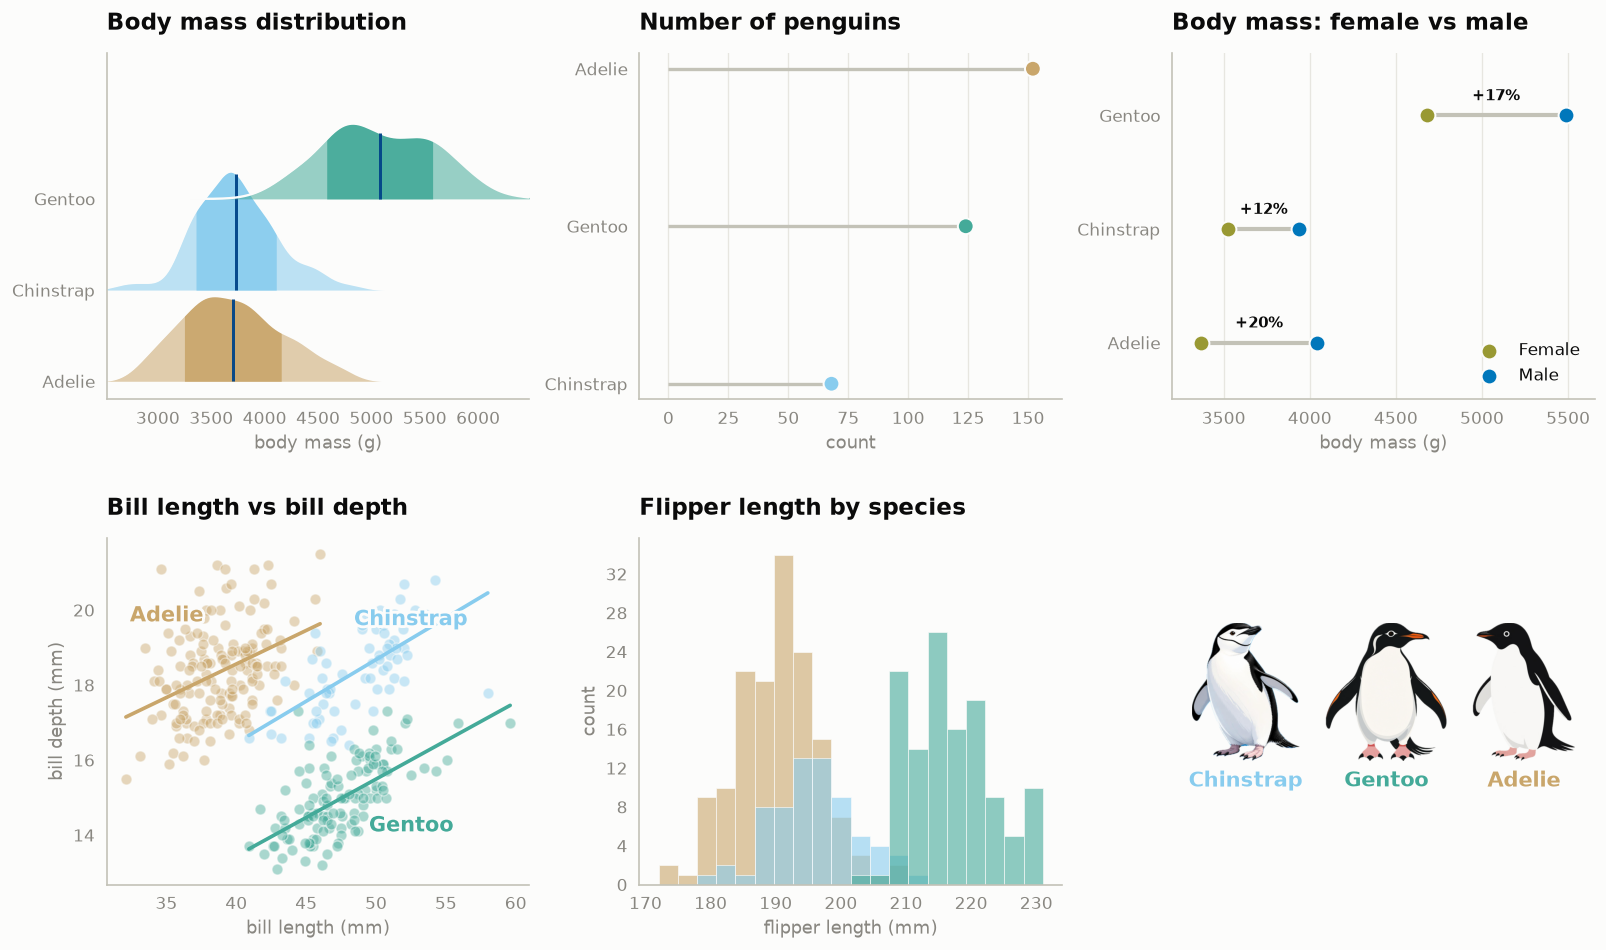
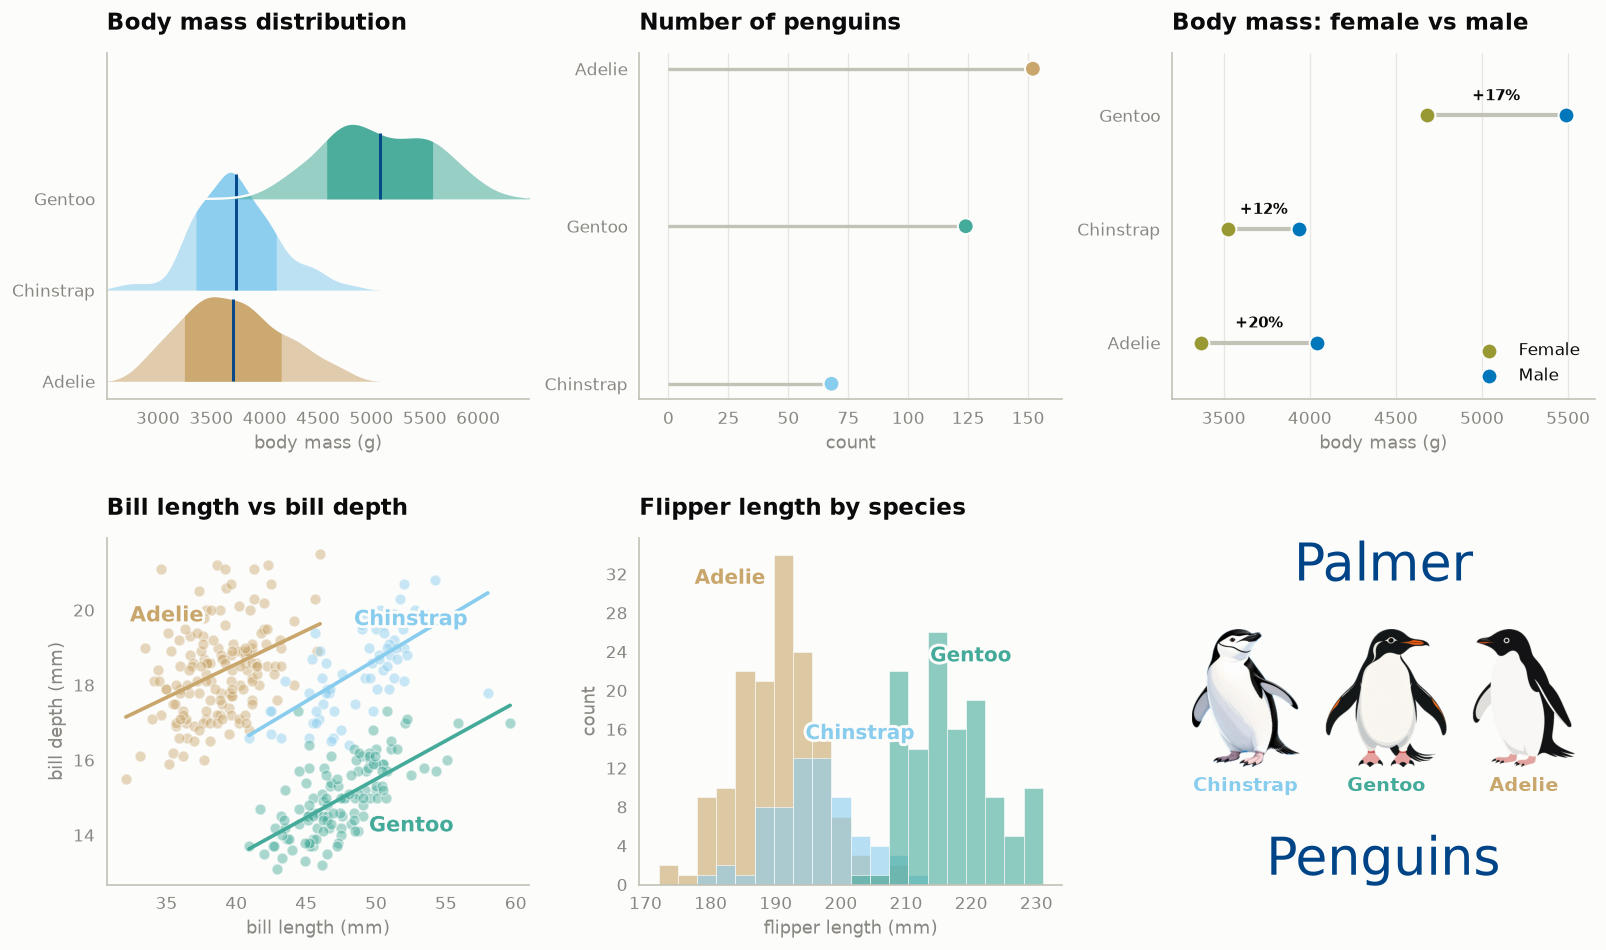
Add histogram species labels and a "Palmer Penguins" title on the trio
Give the flipper-length histogram in-plot species labels so it reads on its
own, and frame the penguin trio with a large, thin dark-blue "Palmer" (above)
and "Penguins" (below) title, with extra spacing between the words and the
group. Regenerate examples/gallery.png.

Claude-Session: https://claude.ai/code/session_011z8vY9Dm6rRXsFqaSvsfSk

diff --git a/examples/example.py b/examples/example.py
@@ -27,7 +27,7 @@ cv.set_theme()
 
 SPCOL = {"Adelie": cv.PALETTE[0], "Chinstrap": cv.PALETTE[1], "Gentoo": cv.PALETTE[2]}
 FEM, MAL = "#999933", "#0077BB"        # coastal sex colours (olive / blue)
-INK, SURFACE = "#0b0b0b", "#fcfcfb"
+INK, SURFACE, NAVY = "#0b0b0b", "#fcfcfb", "#004488"
 
 penguins = pd.read_csv(os.path.join(HERE, "penguins.csv"))
 species_counts = penguins.groupby("species").size()
@@ -101,6 +101,10 @@ cv.hist(penguins, "flipper_length_mm", by="species",
         title="Flipper length by species", xlabel="flipper length (mm)", ax=axH)
 if axH.get_legend():
     axH.get_legend().remove()
+for sp, (lx, ly) in {"Adelie": (183, 31), "Chinstrap": (203, 15),
+                     "Gentoo": (220, 23)}.items():      # direct labels; stands alone
+    axH.text(lx, ly, sp, color=SPCOL[sp], fontsize=12, fontweight="bold",
+             ha="center", path_effects=[pe.withStroke(linewidth=3.5, foreground=SURFACE)])
 
 for a in (axR, axL, axD, axS, axH):
     a.grid(False)
@@ -108,14 +112,15 @@ for a in (axL, axD):                       # faint x-grid aids value reading
     a.set_axisbelow(True)
     a.grid(axis="x", visible=True, color="#e7e6e0", linewidth=0.8)
 
-# penguin trio (bottom-right), doubling as the species key, centred in its cell
+# penguin trio (bottom-right), framed by a "Palmer / Penguins" title and
+# doubling as the species key, centred in its cell
 axP.axis("off")
 axP.imshow(strip, extent=[0, strip_w, 0, strip_h], aspect="equal",
            interpolation="antialiased")
 cell = gs[1, 2].get_position(fig)
 cell_aspect = (cell.width * 16) / (cell.height * 9)
-pad_x, y_lo, y_hi = 60, -120, strip_h
-box_w, box_h = strip_w + 2 * pad_x, strip_h - y_lo
+pad_x, y_lo, y_hi = 60, -300, strip_h + 220        # room for the title above & below
+box_w, box_h = strip_w + 2 * pad_x, y_hi - y_lo
 if box_w / box_h >= cell_aspect:           # fit, then centre — never overflow
     x_range, y_range = box_w, box_w / cell_aspect
 else:
@@ -124,8 +129,12 @@ mid_x, mid_y = strip_w / 2, (y_lo + y_hi) / 2
 axP.set_xlim(mid_x - x_range / 2, mid_x + x_range / 2)
 axP.set_ylim(mid_y - y_range / 2, mid_y + y_range / 2)
 axP.set_aspect("equal", adjustable="box")
+axP.text(mid_x, strip_h + 110, "Palmer", ha="center", va="bottom",
+         fontsize=31, fontweight="medium", color=NAVY)
+axP.text(mid_x, -205, "Penguins", ha="center", va="top",
+         fontsize=31, fontweight="medium", color=NAVY)
 for name, ctr in zip(ORDER, centres):
-    axP.text(ctr, -30, name.capitalize(), ha="center", va="top", fontsize=12.5,
+    axP.text(ctr, -28, name.capitalize(), ha="center", va="top", fontsize=11.5,
              fontweight="bold", color=SPCOL[name.capitalize()])
 
 fig.set_facecolor("#fcfcfb")
